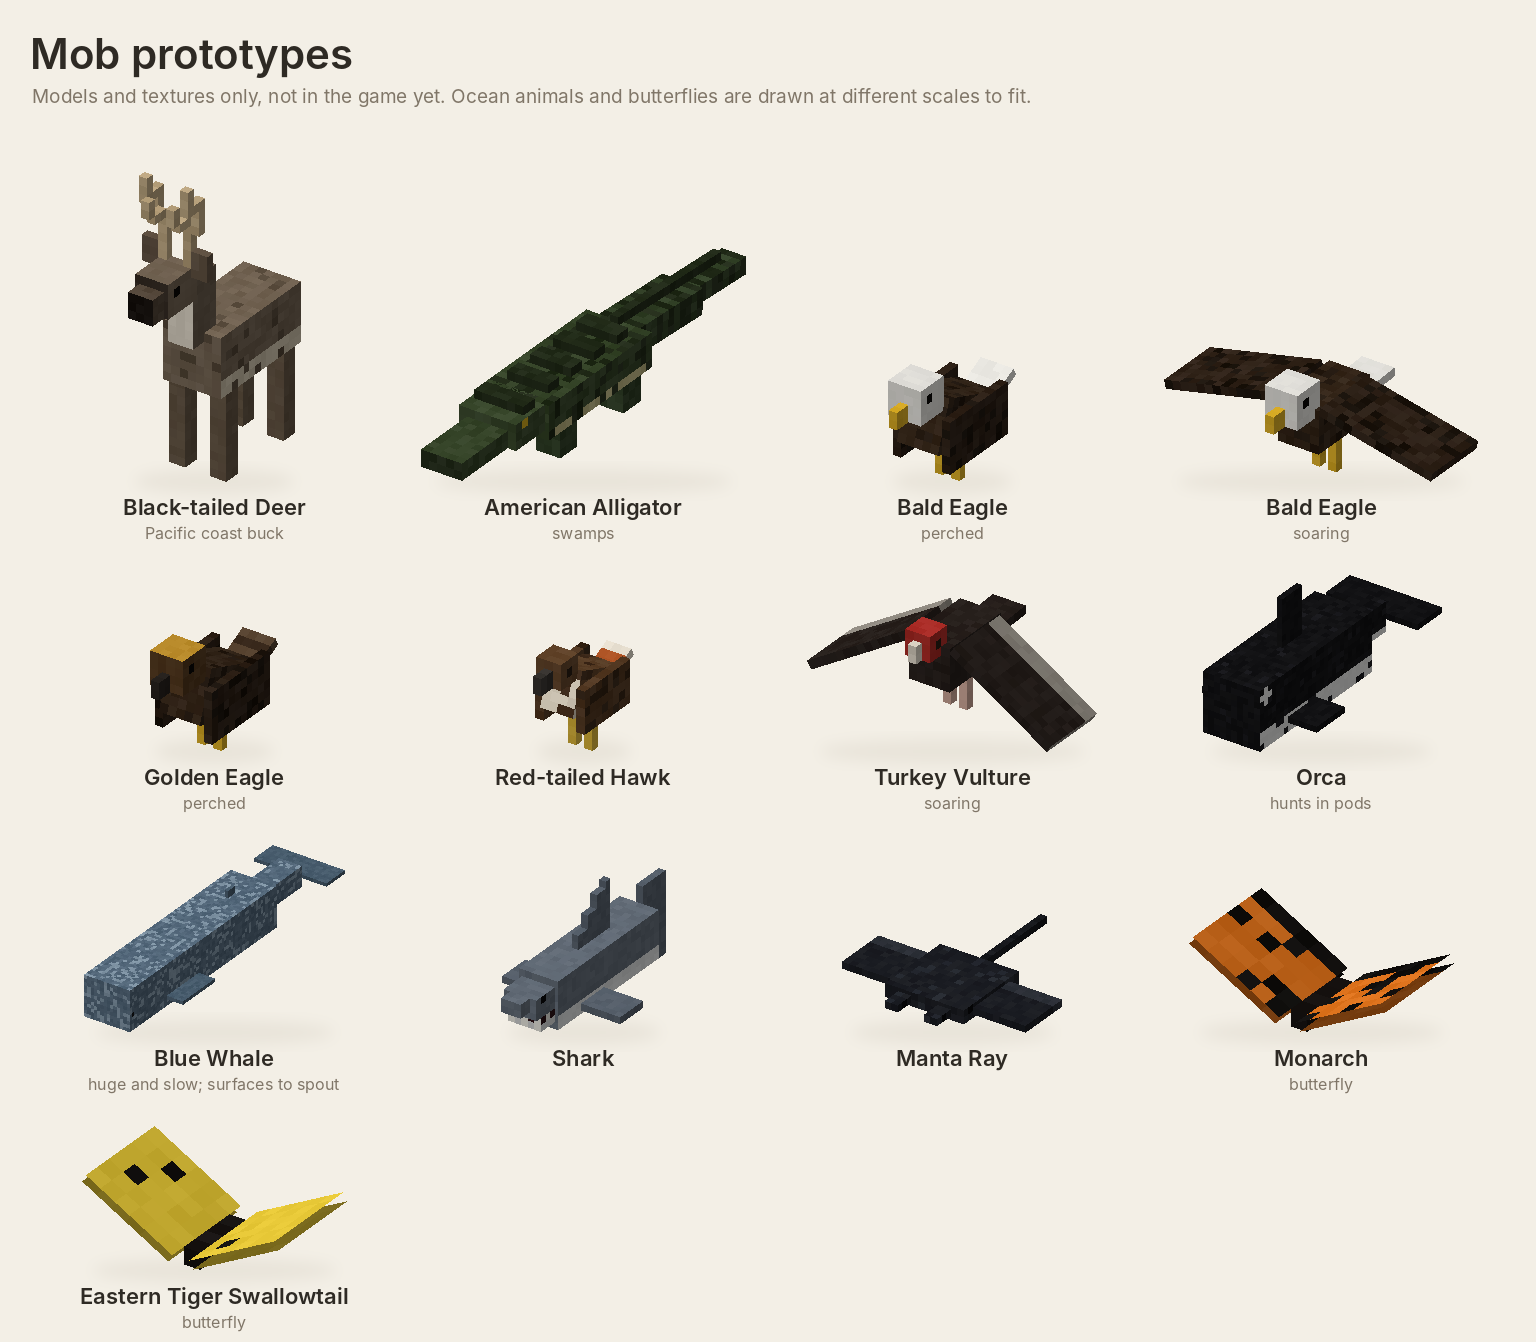
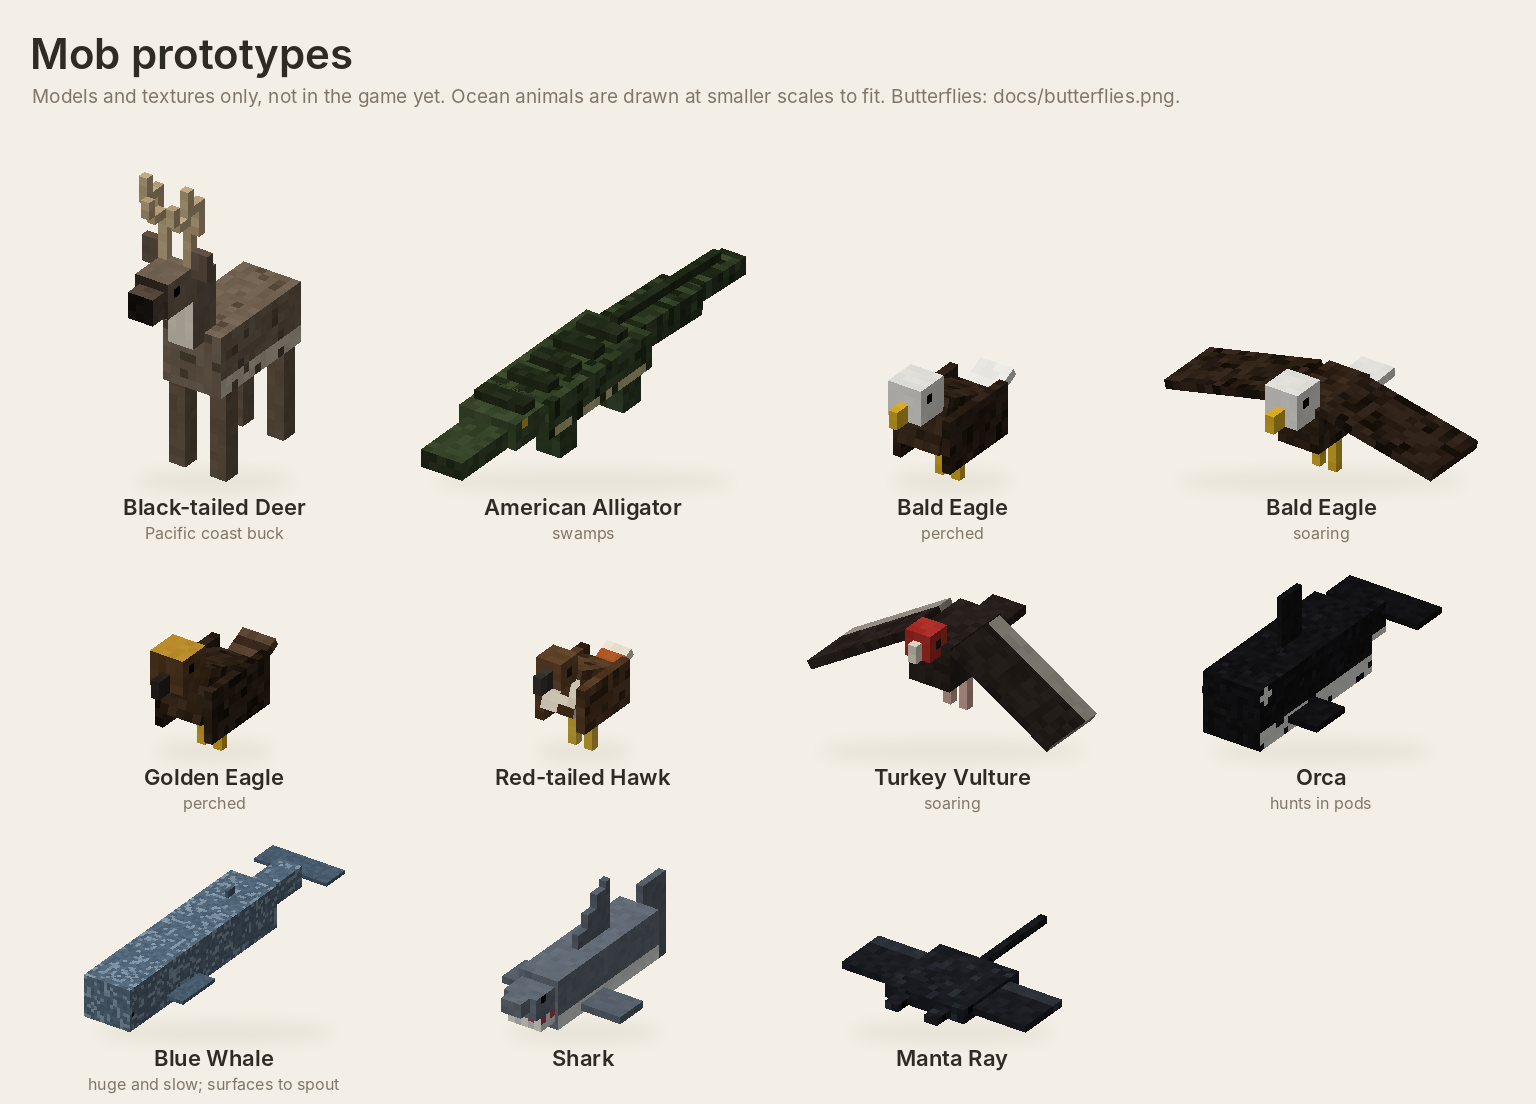
Prototype butterflies (20 species from 10 wing patterns); gum-coloured shark teeth gaps
Claude-Session: https://claude.ai/code/session_01M5QtgiQGYPBXfdb72XCowG

diff --git a/tools/butterflies.py b/tools/butterflies.py
@@ -1,0 +1,166 @@
+"""
+Butterflies, built like vanilla's tropical fish: a handful of wing PATTERNS, each painted in a species' COLOURS.
+Twenty eastern US species as presets (the same patterns can mix with other colours for endless variety).
+  python3 tools/butterflies.py  ->  docs/butterflies.png   (prototype; nothing is added to the game yet)
+Wing grid: x = 0 at the body to 7 at the wingtip, z = 0 at the leading edge to 6 at the trailing edge.
+"""
+import copy, math, os, random, sys
+sys.path.insert(0, os.path.dirname(__file__))
+from critters import box, part, pack, emit_model, emit_textures, ROOT, hexc
+import render_iso as R
+from PIL import Image, ImageDraw, ImageFilter
+
+W, D = 8, 7
+# Wing outline: forewing tip out front, rounded hindwing behind ('#' = wing)
+SHAPE = ["#######.",
+         "########",
+         "#######.",
+         "######..",
+         "######..",
+         "#####...",
+         "###....."]
+
+def inside(x, z): return SHAPE[z][x] == "#"
+def edge(x, z):
+    return inside(x, z) and any(not (0 <= x + dx < W and 0 <= z + dz < D) or not inside(x + dx, z + dz)
+                                for dx, dz in ((1, 0), (-1, 0), (0, 1), (0, -1)) if not (x + dx < 0))
+
+# ---- patterns: (x, z, rng) -> colour key ('a' base, 'b' second, 'c' accent, 'k' black, 'w' white, 'd' dark base)
+def veined(x, z, r):                      # monarch: orange panes between black veins, black border with white dots
+    if edge(x, z): return "w" if (x + z) % 2 == 0 and x > 1 else "k"
+    if x in (2, 5) or z in (3,) or (x == 1 and z < 2): return "k"
+    return "a"
+def veined_band(x, z, r):                 # viceroy: monarch look plus a black line across the hindwing
+    if z == 5 and 0 < x < 5: return "k"
+    return veined(x, z, r)
+def striped(x, z, r):                     # tiger swallowtail: yellow with black stripes, blue near the tail
+    if edge(x, z): return "k"
+    if x in (1, 4) and z < 5: return "k"
+    if z >= 5 and x >= 1: return "b"
+    return "a"
+def spot_rows(x, z, r):                   # black swallowtail: black with rows of yellow spots, blue and orange on the hindwing
+    if edge(x, z): return "a" if (x + z) % 2 and x > 0 else "k"
+    if (x == SHAPE[z].rfind("#") - 1) and z % 2 == 0: return "a"
+    if z >= 4 and x in (2, 3): return "b"
+    if z == 6 and x == 1: return "c"
+    return "k"
+def sheen(x, z, r):                       # pipevine / spicebush / red-spotted purple: dark with a coloured hindwing sheen
+    if edge(x, z): return "c" if z >= 3 and (x + z) % 2 == 0 else "k"
+    if z >= 3 and x <= 4: return "b"
+    return "k"
+def zebra(x, z, r):                       # zebra swallowtail / zebra longwing: many narrow bands
+    if edge(x, z): return "k"
+    return "k" if x % 2 == 1 else "a"
+def banded(x, z, r):                      # red admiral: black with a bright band, white spots at the tip
+    if x >= 5 and z <= 1: return "w" if (x + z) % 2 == 0 else "k"
+    if x + z in (5, 6) and z <= 4: return "a"
+    if z >= 5 and x <= 4 and edge(x, z): return "a"
+    return "k"
+def checker(x, z, r):                     # fritillaries / painted lady: orange chequered with black
+    if edge(x, z): return "k" if (x + z) % 2 else "d"
+    if x >= 5 and z <= 1: return "w"
+    return "k" if (x * 3 + z * 5) % 7 == 0 else "a"
+def edged(x, z, r):                       # mourning cloak: dark wings with a pale border and blue spots inside it
+    if edge(x, z): return "b"
+    near = any(0 <= x + dx < W and 0 <= z + dz < D and not inside(x + dx, z + dz) for dx in (-2, 2) for dz in (-1, 0, 1) if x + dx >= 0) or z == 0
+    if near and (x + z) % 2 == 0 and x > 0: return "c"
+    return "a"
+def plain(x, z, r):                       # whites, sulphurs, azures: one colour, a dark tip spot
+    if x >= 6 and z <= 1: return "k"
+    if x == 4 and z == 2: return "c"
+    return "a"
+def eyespots(x, z, r):                    # buckeye / luna: eyespots on fore and hind wing
+    for (ex, ez) in ((4, 1), (3, 4)):
+        d = abs(x - ex) + abs(z - ez)
+        if d == 0: return "b"
+        if d == 1: return "c"
+    if edge(x, z): return "d"
+    return "a"
+
+S = [  # (name, pattern, colours, tails)
+    ("Monarch", veined, {"a": "#e8781e"}, False),
+    ("Viceroy", veined_band, {"a": "#d8661a"}, False),
+    ("Eastern Tiger Swallowtail", striped, {"a": "#f2d23a", "b": "#4a7ad8"}, True),
+    ("Black Swallowtail", spot_rows, {"a": "#f2d23a", "b": "#4a6ad8", "c": "#e8781e"}, True),
+    ("Pipevine Swallowtail", sheen, {"b": "#3a7ad8", "c": "#f2f2ea"}, True),
+    ("Spicebush Swallowtail", sheen, {"b": "#5aa8a0", "c": "#f2e28a"}, True),
+    ("Zebra Swallowtail", zebra, {"a": "#eef2ea"}, True),
+    ("Red Admiral", banded, {"a": "#e0502a"}, False),
+    ("Painted Lady", checker, {"a": "#e8904a", "d": "#a85a2a"}, False),
+    ("Great Spangled Fritillary", checker, {"a": "#d8823a", "d": "#8a4a1e"}, False),
+    ("Gulf Fritillary", checker, {"a": "#f0682a", "d": "#c04a1a"}, False),
+    ("Mourning Cloak", edged, {"a": "#5a2a30", "b": "#f2e08a", "c": "#4a6ad8"}, False),
+    ("Question Mark", edged, {"a": "#c8682a", "b": "#7a5a8a", "c": "#3a2a24"}, False),
+    ("Red-spotted Purple", sheen, {"b": "#3a5ac8", "c": "#e8602a"}, False),
+    ("Cabbage White", plain, {"a": "#f2f2ea", "c": "#2a2a2a"}, False),
+    ("Clouded Sulphur", plain, {"a": "#f2e05a", "c": "#e8902a"}, False),
+    ("Spring Azure", plain, {"a": "#8ab4f0", "c": "#5a7ab8"}, False),
+    ("Common Buckeye", eyespots, {"a": "#8a6040", "b": "#3a5ad8", "c": "#e8781e", "d": "#5a3e28"}, False),
+    ("Luna Moth", eyespots, {"a": "#b8e8a0", "b": "#3a2a24", "c": "#e8d07a", "d": "#9ac888"}, True),
+    ("Zebra Longwing", zebra, {"a": "#f2e05a"}, False),
+]
+BASE = {"k": "#141210", "w": "#f4f2ea", "a": "#888888", "b": "#888888", "c": "#888888", "d": "#5a5a5a"}
+
+def model(tails):
+    wing_r = [box("wing", (-W, 0, -3), (W, 0.5, D), "wing")]
+    wing_l = [box("wing", (0, 0, -3), (W, 0.5, D), "wing", mirror=True)]
+    if tails:
+        wing_r.append(box("tail", (-3, 0, 4), (1, 0.5, 3), "tail")); wing_l.append(box("tail", (2, 0, 4), (1, 0.5, 3), "tail", mirror=True))
+    return [part("body", (0, 20, 0), [box("body", (-0.5, -0.5, -3), (1, 1, 6), "body"),
+                                      box("antenna_r", (-1.5, -3, -4.5), (0.5, 3, 0.5), "body"), box("antenna_l", (1, -3, -4.5), (0.5, 3, 0.5), "body")], "body"),
+            part("wing_r", (-0.5, 19.5, 0), wing_r, "wing_r", rot=(0, 0, 0.35)),
+            part("wing_l", (0.5, 19.5, 0), wing_l, "wing_l", rot=(0, 0, -0.35))]
+
+def paint_wings(img, parts, pattern, colours, seed):
+    """Overpaint each wing's top and bottom faces with the pattern; everything outside the outline is see-through."""
+    r = random.Random(seed); pal = dict(BASE, **colours); px = img.load()
+    for wb in [b for p in parts if p["name"] in ("wing_r", "wing_l") for b in p["boxes"] if b["name"] == "wing"]:
+        paint_one(img, px, wb["uv"], pattern, pal, random.Random(seed))
+
+def paint_one(img, px, uv, pattern, pal, r):
+    """One wing's patch (the left wing's box is mirrored, so the same painting comes out as its mirror image)."""
+    u, v = uv
+    w_, d_ = W, D
+    fw, fh = img.size
+    # clear the whole wing patch (top, bottom and the thin sides)
+    for x in range(u, u + 2 * (w_ + d_)):
+        for y in range(v, v + d_ + 1):
+            if x < fw and y < fh: px[x, y] = (0, 0, 0, 0)
+    for z in range(D):
+        for x in range(W):
+            if not inside(x, z): continue
+            c = hexc(pal[pattern(x, z, r)])
+            c = tuple(max(0, min(255, k + r.randint(-6, 6))) for k in c) + (255,)
+            px[u + d_ + (W - 1 - x), v + (D - 1 - z)] = c                     # top: x runs outer->body, z back->front
+            under = tuple(int(k * 0.8) for k in c[:3]) + (255,)
+            px[u + d_ + w_ + (W - 1 - x), v + z] = under                       # underside, a little duller
+
+def build(i, name, pattern, colours, tails):
+    parts = model(tails); n = f"bfly_{i}"
+    size = pack(parts); emit_model(n, parts, size)
+    style = {"body": {"c": "#1e1a16", "noise": 3}, "wing": {"c": "#888888"}, "tail": {"c": colours.get("a", "#141210") if pattern in (zebra, eyespots) else "#141210"}}
+    emit_textures(parts, size, {n: style})
+    tex = os.path.join(ROOT, "textures/entity", n + ".png")
+    img = Image.open(tex).convert("RGBA"); paint_wings(img, parts, pattern, colours, 500 + i); img.save(tex)
+    return n
+
+if __name__ == "__main__":
+    R.PX = 14; R.ELEV = math.radians(55)
+    made, renders = [], []
+    for i, (name, pat, cols, tails) in enumerate(S):
+        n = build(i, name, pat, cols, tails)
+        made += [f"{ROOT}/critter_models/{n}.json", f"{ROOT}/textures/entity/{n}.png"]
+        R.YAW = math.radians(-20)
+        renders.append((name, R.render(n, n)))
+    for f in made: os.remove(f)
+    BG, INK, SUB = (243, 239, 230), (46, 42, 36), (128, 118, 104)
+    cols = 5; cw = max(im.width for _, im in renders) + 30; ch = max(im.height for _, im in renders) + 60
+    rows = (len(renders) + cols - 1) // cols
+    c = Image.new("RGB", (cols * cw + 60, 150 + rows * ch), BG); d = ImageDraw.Draw(c)
+    d.text((30, 28), "Butterflies", font=R.font(42, True), fill=INK)
+    d.text((32, 84), "Ten wing patterns x species colours, like the tropical fish. Prototype, not in the game yet.", font=R.font(19), fill=SUB)
+    for k, (name, im) in enumerate(renders):
+        x = 30 + (k % cols) * cw; y = 150 + (k // cols) * ch
+        c.paste(im, (x + (cw - im.width) // 2, y + ch - 50 - im.height), im)
+        d.text((x + cw // 2, y + ch - 30), name, font=R.font(17, True), fill=INK, anchor="mm")
+    out = os.path.join(os.path.dirname(__file__), "..", "docs", "butterflies.png"); c.save(out); print(out, c.size)

diff --git a/tools/prototypes.py b/tools/prototypes.py
@@ -123,9 +123,9 @@ for p in shark:
 P.append(("Shark", "", shark, {"body": {"c": "#6a7480", "noise": 6, "belly": "#eceeee"},
                                 "snout": {"c": "#6a7480", "noise": 6, "bottom": "#eceeee", "side_eyes": "#0a0a0c", "eye_row": 0},
                                 "snout_tip": {"c": "#6a7480", "noise": 6, "bottom": "#d8dcdc"},
-                                "fin": {"c": "#5e6874", "noise": 5}, "mouth": {"c": "#2e1418", "noise": 2, "bars": {"c": "#f4f2ea", "n": 2},
-                                          "front_map": ["wdwdw"], "front_colors": {"w": "#f4f2ea", "d": "#2e1418"}},
-                                "jaw": {"c": "#e6e8e8", "noise": 4, "top": "#2e1418", "front_map": ["wcwcw"], "front_colors": {"w": "#f4f2ea", "c": "#d8dada"}}}, 0.8))
+                                "fin": {"c": "#5e6874", "noise": 5}, "mouth": {"c": "#b04a56", "noise": 3, "bars": {"c": "#f4f2ea", "n": 2},
+                                          "front_map": ["wgwgw"], "front_colors": {"w": "#f4f2ea", "g": "#b04a56"}},
+                                "jaw": {"c": "#e6e8e8", "noise": 4, "top": "#8a3440", "front_map": ["wcwcw"], "front_colors": {"w": "#f4f2ea", "c": "#d8dada"}}}, 0.8))
 manta = [part("body", (0, 21, 0), [box("disc", (-6, -1, -6), (12, 2, 12), "body"),
                                     box("wing_r", (-14, -0.5, -4), (8, 1, 8), "wing"), box("wing_l", (6, -0.5, -4), (8, 1, 8), "wing", mirror=True),
                                     box("horn_r", (-4, -0.5, -9), (2, 1, 3), "body"), box("horn_l", (2, -0.5, -9), (2, 1, 3), "body", mirror=True)], "fish_body"),
@@ -134,17 +134,6 @@ P.append(("Manta Ray", "", manta, {"body": {"c": "#1e2026", "noise": 5, "bottom"
                                             "speckle": {"c": "#2a2e36", "p": 0.15}},
                                    "wing": {"c": "#1e2026", "noise": 5, "bottom": "#eeeeec", "tip": {"c": "#30343c", "frac": 0.2}},
                                    "tail": {"c": "#1a1c20"}}, 0.8))
-# ---------------- butterflies: wings in a V
-def butterfly():
-    return [part("body", (0, 20, 0), [box("body", (-0.5, -0.5, -2), (1, 1, 4), "body"),
-                                      box("antenna_r", (-1, -2.5, -3), (0.5, 2, 0.5), "body"), box("antenna_l", (0.5, -2.5, -3), (0.5, 2, 0.5), "body")], "body"),
-            part("wing_r", (-0.5, 19.5, 0), [box("wing", (-6, 0, -3), (6, 0.5, 6), "wing")], "wing_r", rot=(0, 0, 0.5)),
-            part("wing_l", (0.5, 19.5, 0), [box("wing", (0, 0, -3), (6, 0.5, 6), "wing", mirror=True)], "wing_l", rot=(0, 0, -0.5))]
-P.append(("Monarch", "butterfly", butterfly(), {"body": {"c": "#1a1614"},
-         "wing": {"c": "#e8781e", "noise": 8, "speckle": {"c": "#141210", "p": 0.25}, "fringe": "#141210", "tip": {"c": "#141210", "frac": 0.2}}}, 2.0))
-P.append(("Eastern Tiger Swallowtail", "butterfly", butterfly(), {"body": {"c": "#1a1614"},
-         "wing": {"c": "#f2d23a", "noise": 6, "bars": {"c": "#141210", "n": 3}, "fringe": "#141210", "speckle": {"c": "#141210", "p": 0.08}}}, 2.0))
-
 if __name__ == "__main__":
     made, renders = [], []
     for i, (label, sub, parts, style, scale) in enumerate(P):
@@ -161,7 +150,7 @@ if __name__ == "__main__":
     rh = [max(im.height for *_, im in r) + 90 for r in rows]
     c = Image.new("RGB", (cols * cw + 60, 150 + sum(rh)), BG); d = ImageDraw.Draw(c)
     d.text((30, 28), "Mob prototypes", font=R.font(42, True), fill=INK)
-    d.text((32, 84), "Models and textures only, not in the game yet. Ocean animals and butterflies are drawn at different scales to fit.", font=R.font(19), fill=SUB)
+    d.text((32, 84), "Models and textures only, not in the game yet. Ocean animals are drawn at smaller scales to fit. Butterflies: docs/butterflies.png.", font=R.font(19), fill=SUB)
     y = 150
     for row, h in zip(rows, rh):
         base = y + h - 70

diff --git a/ROADMAP.md b/ROADMAP.md
@@ -31,7 +31,7 @@ Ideas queued for later, roughly grouped. Nothing here is built yet.
 - **Schools of ocean fish** that move together.
 
 **Small life**
-- **Butterflies**
+- **Butterflies**: many species like the tropical fish (wing patterns x colours); 20 eastern species prototyped in docs/butterflies.png
 - **Fireflies**: drifting over plains and through the woods on summer nights (the game only has the firefly bush).
 - **Chipmunks**
 
